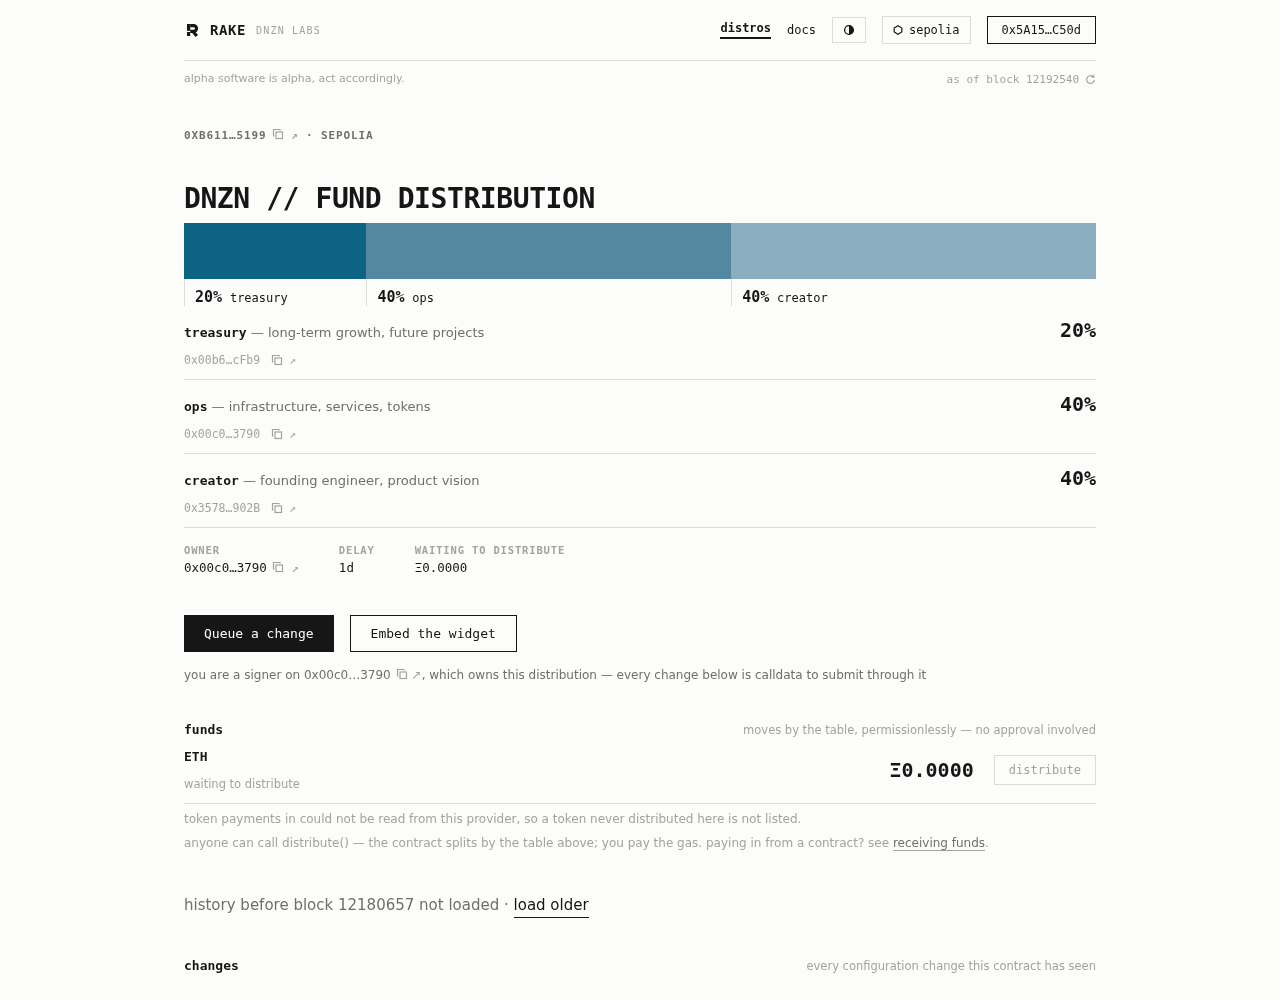
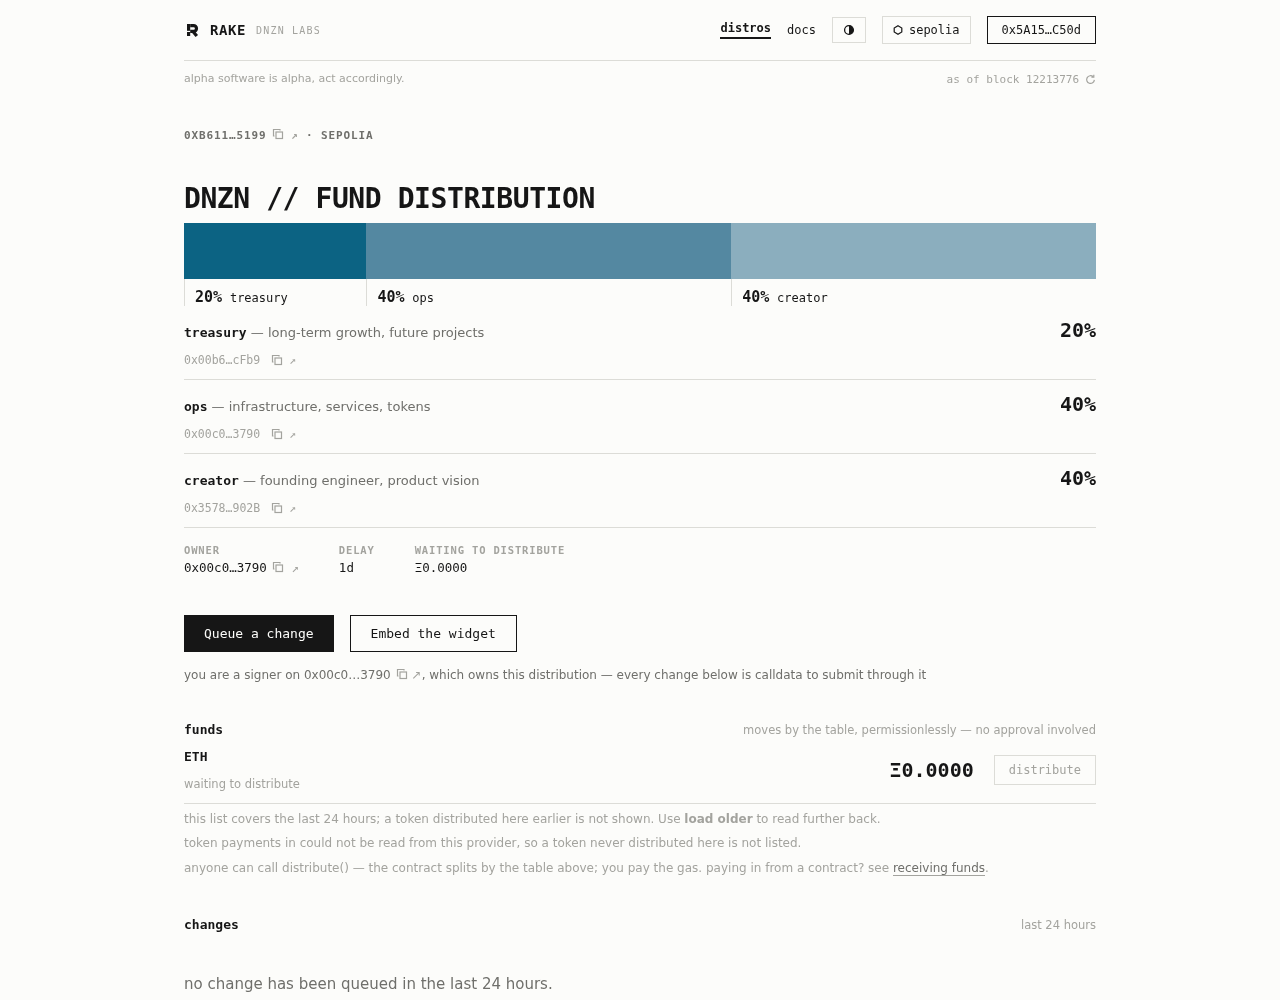
docs(m05-t01d): the handoff, and step 11's record shots
AC 2's 9-of-10 cold-load rate is not met by the task's own committed
measurement, and the one chain reading 0/10 is the one its own file
says is confounded; it is the handoff's open question.

diff --git a/docs/milestones/m05/tasks/m05-t01d/HANDOFF.md b/docs/milestones/m05/tasks/m05-t01d/HANDOFF.md
@@ -1,0 +1,130 @@
+# m05-t01d — handoff
+
+PR: #419 · Branch: `docs/m05-t01d-step12-handoff` · 2026-11-26
+
+The five findings of m05-t01c's acceptance run were fixed in `app/`, each with a named test, and the
+plan's step 5 grew three Product Owner amendments while they were being built — the 24-hour read, "a
+wallet is never worse off than no wallet", and "the page reads its own chain through its own
+provider" — so what shipped is the third shape of that step rather than the first. The resulting
+document was cut from `main` at `4fb6296`, proposed by the engineer, co-signed and submitted by the
+Product Owner, and executed on both testnets as § Uploads rows 7 and 8; the gateway was redeployed so
+its static `widget.js` copies match, and gw44's `make verify` measured the deployed host for the
+first time in this project's record. **One acceptance criterion is not met — AC 2's 9-of-10 cold-load
+rate — and it is not met by the task's own committed measurement rather than by anything found
+tonight; it is the § Open question below, because the remedies are all outside this task.**
+
+## Acceptance criteria
+
+| AC | Result | Evidence |
+|:---|:-------|:---------|
+| 1 — `make test` passes with the tests of steps 2 to 7 in it | **pass** | `devbox run -- make test` at `16891a2` → `tests 419 · pass 419 · fail 0 · skipped 0`. The step tests, run as a set: `node --test test/day-read.test.mjs test/answered.test.mjs test/page-chain.test.mjs test/node-sentence.test.mjs test/action-hash.test.mjs test/chain-type.test.mjs test/widget-sri.test.mjs` → `tests 77 · pass 77 · fail 0 · skipped 0`. **`skipped 0` is load-bearing and newly enforced:** `node --test` exits 0 on a skip, so two `widget-sri` tests were silent passes whenever they lost a race for `app/dist`; `make test` now runs through `tools/node-test.sh`, which fails the build on any skip (commit `1572929`, and Deviation 2) |
+| 2 — on all four chains, no wallet, the last 24 hours read in ≥ **9 of 10** cold loads, saying `last 24 hours` and `connect a wallet to load more`, never showing less escrow than `reserved` accounts for without stating the difference; a screenshot per chain | **not met** | **The wording and the escrow clause pass; the rate does not, and the screenshots are absent.** `cold-load.md` § Run A (as shipped, 2026-11-23T06:31:49Z, 10 loads each) gives loads whose every section printed no boundary line: chain **1 → 6/10**, **8453 → 10/10**, **11155111 → 0/10**, **84532 → 6/10**, against the 9 the criterion asks. The dominant cause is the endpoints' rate limiting, not the page — Run A's own worst-per-load column reads `9× throttle` on 11155111 and `4× throttle` on each of 1 and 84532 — and § The limits records that **none of the four endpoints names a figure** for its rate, so the cap cannot be derived from their words and has to be measured. **11155111's 0/10 is confounded by my own traffic** and the file says so in § A confound — four runs in one hour took its throttle count 5 → 8 → 9 of 10 and its median truncated depth from 9,965 blocks to 31, which is a measurement of my instrument. Wording: § Run A classifies by the page's own lines and `test/day-read.test.mjs` asserts the 24-hour floor from timestamps and both sentences. Escrow: `test/escrow-state.test.mjs`, with decision 72's reasoning — `reserved[token]` is exact, so the difference is always stated. **No screenshot per chain exists**; `cold.mjs --shots` was never run with it. See § Open questions |
+| 3 — the driver exits 0 on Sepolia **and** Base Sepolia against `https://rake.dnzn.dev`, full list, and 1 on the control on both | **pass** | Record run at `16891a2`, `--acceptance`: 11155111 **exit 0**, 14 rows, 5 writes, 03:05:59–03:13:26Z; 84532 **exit 0**, 14 rows, 5 writes, 03:13:38–03:18:05Z. Controls: **exit 1** on both, failing at row (c) with `sections still loading after 20 s`. Row (k) reports **pending**, not pass, for the pre-existing reason in `rowK` (Deviation 4). This closes the 84532 rows m05-t01c recorded as not met: that chain's shots went from 5 files to 13, the 8 new ones being `c-distro`, `c-console-first`, `d-console-second`, `e-older`, `g-distributed`, `h-released`, `i-applied`, `j-calldata`. **Sepolia's record run needed a second attempt** — Deviation 3 |
[1 lines of base64/hex data omitted]
+| 5 — gw44's `make verify` with `VERIFY_SITE` prints `ok` on its `site` lines for both chains | **pass** | Four `site` lines, all `ok`: `11155111 site root` and `site widget`, `84532 site root` and `site widget`, root 72,421 B per chain and widget 8,525 B, chain hash equal to site hash on each. Its first line read `verify: address 0x00a9F390A6010d045e0d34856048DdD6910d25BA on chains [11155111 84532]` before the result, as § 4f requires. The browser stage also passed, six loads across both chains |
+| 6 — #373, #375, #379, #382 and #385 closed by the PR, each by a named test | **pass** | All five `CLOSED` 2026-11-23T09:30:4xZ by merge commit `8195da0`. Named tests: #373 `test/node-sentence.test.mjs`; #375 `test/page-chain.test.mjs`, `test/chain-bar.test.mjs`; #379 `test/chain-type.test.mjs`, `test/wallet-picker.test.mjs`; #382 `test/answered.test.mjs`, `test/history-wall.test.mjs`; #385 `test/action-hash.test.mjs` |
+| 7 — `git diff --stat main` touches only `app/`, `test/`, `tools/`, `calldata/`, `deploy/`, `docs/milestones/m04/tasks/m04-t05/`, `RUNBOOK.md` Step 4 and § Uploads, and this directory | **pass with two declared exceptions** | `git diff --name-only 8f71b244 origin/main` (the plan's own merge as base) over 61 files: everything is in the list except **`docs/ROADMAP.md`** and **`mk/20-dapp.mk`**, both declared as Deviations 1 and 2. `RUNBOOK.md`'s four hunks are all inside Step 4 and § Uploads (`@@ -1074`, `-1450`, `-1507`, `-1557`). This row excludes the handoff and its shots, which cannot count themselves: `git diff --name-only 8f71b244 origin/main -- . ':!docs/milestones/m05/tasks/m05-t01d/HANDOFF.md'` |
+
+## Deviations from the plan
+
+1. **`docs/ROADMAP.md` is outside AC 7's path list, and the plan itself requires it.** Step 5's
+   § Open questions names `ROADMAP.md` § Decisions as the `Record:` destination for #387's ruling, so
+   the criterion's list is incomplete by the plan's own instruction rather than by a choice of mine.
+   What landed there is **decision 72** and its 2026-11-23 amendment, 20 lines, no other entry moved.
+2. **`mk/20-dapp.mk` changed, also outside AC 7's list**, in commit `1572929`: `make test` now runs
+   `bash tools/node-test.sh test/*.test.mjs` instead of `node --test test/*.test.mjs`. The reason is
+   in AC 1 — `node --test` exits 0 on a skip, so two SRI tests were silent passes depending on
+   process scheduling. Declared rather than quietly carried because it changes how **every**
+   criterion that quotes `make test` is measured.
+3. **Step 11's record run on Sepolia needed two attempts, and the first failed.** Attempt 1
+   (03:00:34–03:04:44Z) failed at row (i): `propose setDescription was refused by the page — send
+   failed: … error code -32000: nonce too low: next nonce…`, after rows (f), (g) and (h) had each
+   sent. Attempt 2 passed every row. **The failure is recorded rather than re-run away**, and it is
+   the first Discovery; the rate across tonight's four full Sepolia runs is **1 in 4**. I did not
+   change the driver to make the record pass.
+4. **Row (k) is `pending`, not a pass, on both chains**, which is unchanged from m04-t05 § Step 2 and
+   not a regression: there is no published URL for the host page, and the committed file names
+   84532's w3link base rather than a `dnzn.dev` one. `rowK` still asserts the file's two mounts, its
+   one `data-rpc` and its gateway `widget.js` source, so the row is checked as far as it can be.
+5. **Row (c) and row (e) of the driver had to be fixed after the upload, in a PR of their own**
+   ([#414](https://github.com/dnznlabs/rake/pull/414)): they still asserted the wording step 5's
+   #400 amendment replaced, so the first record run failed on a page that was correct. The architect
+   requested changes on the first fix because it replaced one unconditional claim with another; the
+   merged version reads which of `dayHead`'s three states the page is in and asserts that state.
+6. **A merged record of mine was wrong and was corrected in
+   [#418](https://github.com/dnznlabs/rake/pull/418).** § Uploads rows 7 and 8 claimed "the first
+   three-chunk document"; m05-t01c's was first. The false claim is struck rather than deleted in the
+   file.
+
+## Decisions
+
+- **The order gate for § 4c was read as chunk *contents*, not only as `App`'s nonce.** Before piece 2
+  the code at the doc-0 pointer was compared with `0x00` + `1-addChunk-0.hex`'s `bytes` argument, and
+  before the batch both document pointers were. The runbook offers the nonce and code-presence rows as
+  cheap pre-checks and names the content equality as the only thing that proves the order held; the
+  cheap ones cannot see the one silent misorder, so all three were read on both chains.
+- **The w3link Sepolia failure was classed as third-party and carried, not re-uploaded**, per § 4d's
+  own rule. Before classing it I checked the instrument could see a presence: 84532 answers 200 on the
+  same host, our own gw44 build at the pinned commit answers 200 at 72,421 bytes for **both** chains,
+  and `request([])` answers 200 through our endpoints on both.
+- **m05-t01c's missing § Uploads row was surfaced, not reconstructed, inside this task** (#418). It is
+  another task's record, and inventing its figures to close a visual gap is the error that section
+  exists to prevent. See § Discoveries for where the reconstruction now lives.
+- **Row (c)'s two non-day branches are proven by forced-selector mutation rather than by a live
+  reading**, because they cannot be induced against a deployed host: the `?rpc=`, `?cap=`, `?win=` and
+  `?maxwin=` overrides are `/*DEV*/`-guarded and the shipped build strips them — `maxwin` occurs 2× in
+  `app/src/index.html`, **0×** in `app/dist/index.html` and 0× in the document on chain. #414's body
+  says which branch has which kind of evidence.
+
+## Discoveries
+
+- **A new driver failure, not #412 and not filed: `cast send` can be refused `nonce too low` mid-run.**
+  Row (i), record attempt 1, after three rows of sends from the same key. The pooled-endpoint
+  explanation is **ruled out**, not assumed: 20 consecutive `cast nonce` reads and 20 `cast
+  block-number` reads from `ethereum-sepolia-rpc.publicnode.com` agreed 20/20, and `latest` equalled
+  `pending` at 202. The remaining plausible cause is overlapping sends from one key within a run; the
+  page's `eth_sendTransaction` path in `tools/uat/provider.mjs` calls `cast send` directly and has no
+  `sendOnce` retry behind it, unlike the driver's own setup sends. Rate 1 in 4 Sepolia full runs
+  tonight.
+- **§ Uploads had no row for m05-t01c's upload at all** — `App` nonce 1 to 8 with nothing between —
+  which the struck superlative was hiding. **A reconstruction now exists and wants review:** branch
+  `docs/m05-t01d-handoff` on `origin` at `ff704c5`, written by another session of mine before it
+  stood down, adding rows 6a and 6b with two independent confirmations per row. It is **misnamed**,
+  has **no PR**, and is based on `01f2646`, which predates #418, so its strike and the merged one
+  overlap. It also states the pointer sizes as runtime bytes (24,001 / 2,367 / 8,526) where #418
+  states them as chunk data (24,000 / 2,366 / 8,525), one byte apart by the SSTORE2 stop byte — the
+  file should not carry both conventions.
+- **w3link's Sepolia instance is not in ERC-5219 mode**, which narrows what `README.md`'s row should
+  say: no `web3-resolve-mode` header, and `/widget.js` answers `Invalid method name`, the auto-mode
+  error for a path read as a function name. Added to
+  [#411](https://github.com/dnznlabs/rake/issues/411#issuecomment-7181148239) with the comparison
+  table.
+- **A latent trap in the driver that `cold-load.md` found and row (c) still carries:**
+  `PATTERNS.activityRow` backs row (c)'s "at least one row" assertion, and it once matched the bare
+  ` in ` of "token payments **in** could not be read from this provider". It is anchored to an amount
+  now, but the funds block gaining another sentence containing ` in ` would make row (c) pass on a
+  section with no rows. Row (c) counts `.hrow` **elements** as well, which is what currently stops it.
+- **AC 7's path list and the plan's own `Record:` line disagree** (Deviation 1). Worth fixing in the
+  template or in the next plan rather than here.
+
+## Open questions
+
+- **AC 2's 9-of-10 cold-load rate is not met. Does the document ship on the committed figures, or is
+  a clean re-measurement a gate?**
+  *Options:* (1) **ship as measured** — the page is honest about what it could not read, which is what
+  #387's ruling and decision 72 chose, and the rate is a property of free public endpoints rather than
+  of the code; costs nothing, and leaves a criterion recorded as not met. (2) **re-measure cleanly
+  first** — `cold.mjs` on all four chains after a genuinely quiet gap from a quiet IP, with
+  `--shots` so the missing screenshot per chain exists; costs calendar time, not work, and is the only
+  way to know whether 11155111's 0/10 is the endpoint or my own four thousand requests. (3) **buy or
+  build depth** — a paid endpoint with its key out of the public document, or the log cache of #221;
+  both are tasks of their own and #221 is explicitly carried post-mainnet by decision 62.
+  *Recommendation:* **(2) then (1).** The figures as they stand cannot support a ship decision in
+  either direction, because the one chain that reads 0/10 is the one the file itself says is
+  confounded; a clean run costs a quiet gap and nothing else. If it comes back below 9 of 10 anyway,
+  (1) is right and the criterion should be amended to a rate the free endpoints can actually hold,
+  since (3) is out of this task's scope by its own § Out of scope.
+  *Default, if nothing is said:* (1), because decision 72 already governs what the page *says* and
+  nothing here changes it. *Blocks:* this task's close, and nothing else — the mainnet uploads of
+  m05-t03 read the same endpoints and will meet the same rate.
+  *Record:* `ROADMAP.md` § Decisions, as a second amendment to decision 72.
